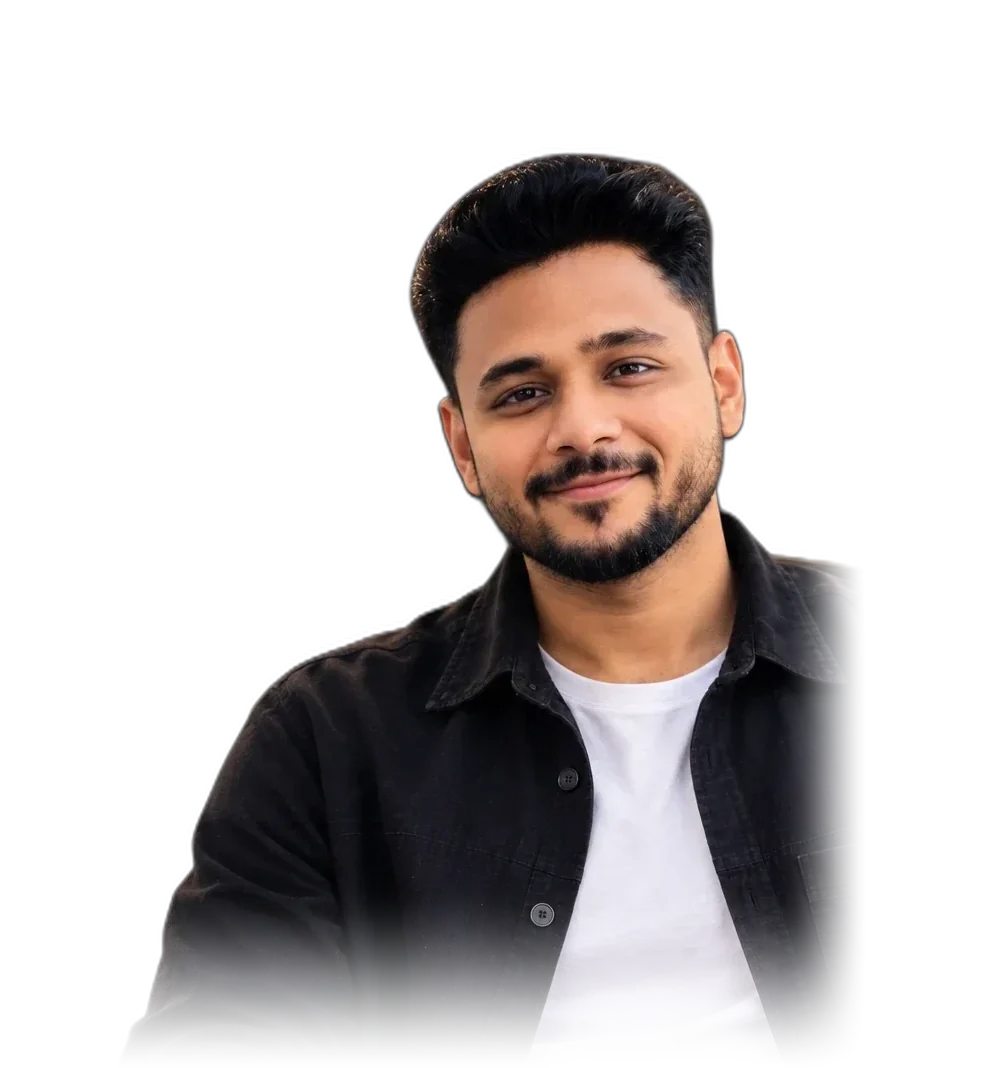
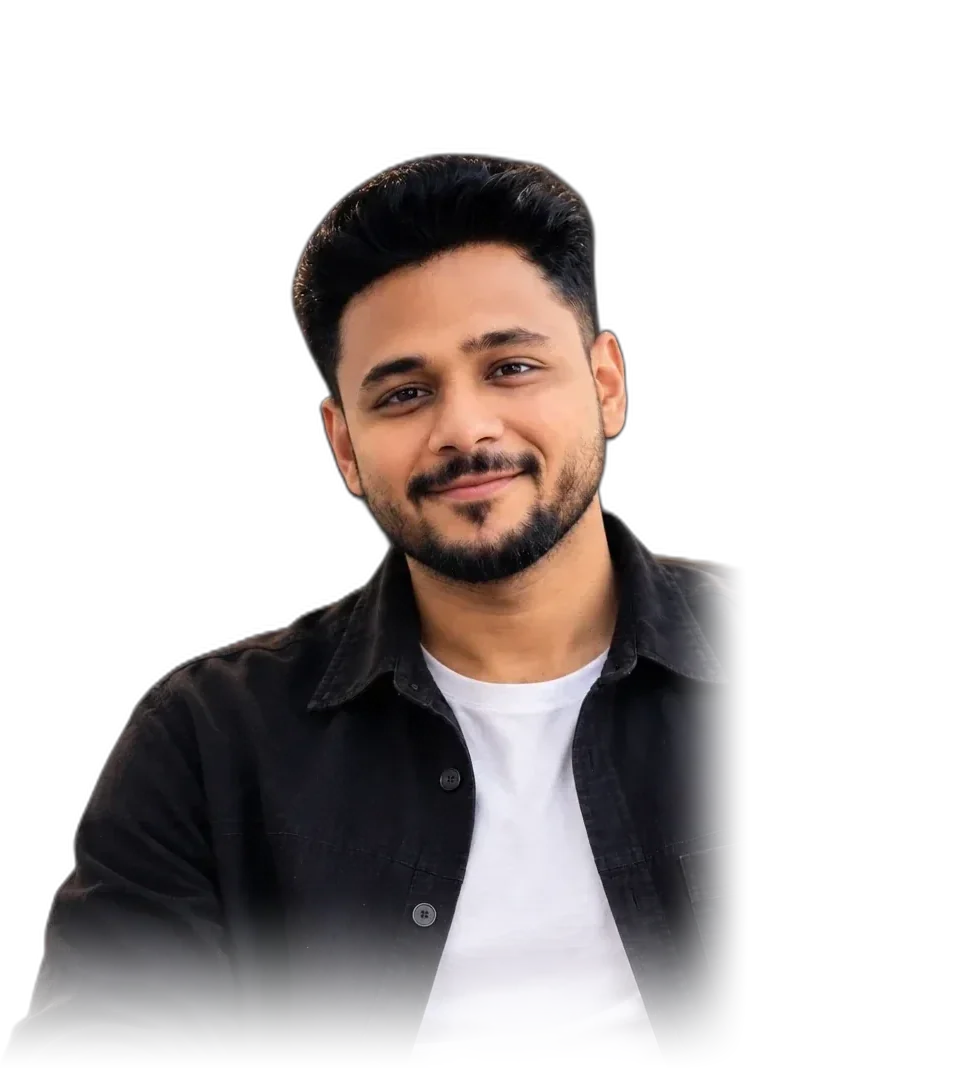
Fix review findings: hero framing, nav highlight, accessibility, robustness
- Re-centre the hero cut-out so the animated title no longer covers the head
- Active menu link matches the scroll padding and the 1.4 zoom on 2K screens
- Custom cursor follows the mouse correctly on 2K screens
- About shadow no longer blocks the Resume button on phones
- Both split-text lines loop in sync (loopDelay for the shorter line)
- Keyboard focus styles for tabs, services buttons, bullets, project link
- aria-current on the active bullet, aria-pressed on work tabs
- Work cards: gap between title and year; long words wrap in cards
- Open services card: arrow button no longer covers the last skills row
- Hide the projects section and menu link when there are no projects
- A typo in data.js no longer leaves the page blank (Excel still loads)
- Page title and description editable from the Excel Profile tab
- Placeholder uses the reference screenshot ratio; README rewritten

Claude-Session: https://claude.ai/code/session_01V3rJRr9ddJGrkVNupyDXSH

diff --git a/assets/js/main.js b/assets/js/main.js
@@ -36,6 +36,10 @@ const splitList = (s) => String(s ?? "").split(/[,;\n]/).map((x) => x.trim()).fi
 const isVisible = (row) => String(row.visible ?? "yes").trim().toLowerCase() !== "no";
 const pad = (n) => String(n).padStart(2, "0");
 const reduceMotion = window.matchMedia("(prefers-reduced-motion: reduce)");
+// Screens >= 2048px use "body { zoom: 1.4 }": mouse and scroll positions are zoomed, element offsets are not
+const bodyZoom = () => parseFloat(getComputedStyle(document.body).zoom) || 1;
+let zoom = bodyZoom();
+window.addEventListener("resize", () => (zoom = bodyZoom()));
 
 /*=============== CONTENT LOADING ===============*/
 const TABS = ["Profile", "Projects", "Experience", "Services", "Testimonials"];
@@ -150,7 +154,9 @@ function mergeTabs(defaults, tabs) {
 async function loadContent() {
   const sources = [];
   if (typeof SHEET_URL === "string" && SHEET_URL.trim()) sources.push(["Google Sheet", () => loadGoogleTabs(SHEET_URL)]);
-  if (typeof EXCEL_FILE === "string" && EXCEL_FILE.trim()) sources.push(["Excel file", () => loadExcelTabs(EXCEL_FILE)]);
+  // Still read the Excel file if data.js is broken (EXCEL_FILE missing)
+  const excel = typeof EXCEL_FILE === "string" ? EXCEL_FILE : "portfolio-data.xlsx";
+  if (excel.trim()) sources.push(["Excel file", () => loadExcelTabs(excel)]);
 
   for (const [name, load] of sources) {
     try {
@@ -188,6 +194,12 @@ function renderProfile(p) {
     if (value) el.textContent = value;
   });
   $("#about-text").innerHTML = boldify(p.about_text);
+  if (p.page_title) document.title = p.page_title;
+  if (p.page_description) document.querySelector('meta[name="description"]').setAttribute("content", p.page_description);
+  if (p.logo) {
+    $("#hero-image").alt = p.logo;
+    $("#about-image").alt = p.logo;
+  }
 
   const heroImage = safeUrl(p.hero_image);
   if (heroImage) $("#hero-image").src = heroImage;
@@ -246,6 +258,8 @@ function projectCard(p, i) {
 // Returns the number of real (not repeated) projects
 function renderProjects(projects) {
   const cards = projects.filter(isVisible).map(projectCard);
+  $("#projects").hidden = cards.length === 0;
+  document.querySelector('.nav__menu a[href="#projects"]').closest("li").hidden = cards.length === 0;
   // Swiper's loop mode needs more slides than fit on the screen, so with only
   // a few projects the cards are repeated (the original design had 8 projects).
   const copies = cards.length ? Math.ceil(8 / cards.length) : 0;
@@ -368,8 +382,10 @@ function startSplitText() {
     delay: stagger(80),
     loop: true,
   };
-  animate(chars1, options);
-  animate(chars2, options);
+  // Lines with fewer letters wait a bit longer, so both loops stay in sync
+  const longest = Math.max(chars1.length, chars2.length);
+  animate(chars1, { ...options, loopDelay: (longest - chars1.length) * 80 });
+  animate(chars2, { ...options, loopDelay: (longest - chars2.length) * 80 });
 }
 
 /*=============== SWIPER PROJECTS ===============*/
@@ -387,7 +403,11 @@ function startSwiper(count) {
   // One bullet per real project (the repeated cards share the same bullets)
   const bullets = document.querySelectorAll("#projects-pagination .swiper-pagination-bullet");
   const update = () =>
-    bullets.forEach((b, i) => b.classList.toggle("swiper-pagination-bullet-active", i === swiperProjects.realIndex % count));
+    bullets.forEach((b, i) => {
+      const active = i === swiperProjects.realIndex % count;
+      b.classList.toggle("swiper-pagination-bullet-active", active);
+      active ? b.setAttribute("aria-current", "true") : b.removeAttribute("aria-current");
+    });
   const goTo = (i) => {
     const current = swiperProjects.realIndex;
     swiperProjects.slideToLoop(current - (current % count) + i);
@@ -413,6 +433,7 @@ tabs.forEach((tab) => {
     // Activate the tab and its content
     tab.classList.add("work-active");
     targetContent.classList.add("work-active");
+    tabs.forEach((t) => t.setAttribute("aria-pressed", String(t === tab)));
   });
 });
 
@@ -466,13 +487,15 @@ const sections = document.querySelectorAll("section[id]");
 
 const scrollActive = () => {
   const scrollY = window.scrollY;
+  // Menu clicks stop "scroll-padding-top" above a section, so the threshold must be larger than that
+  const offset = Math.max(50, (parseFloat(getComputedStyle(document.documentElement).scrollPaddingTop) || 0) + 2);
   const atBottom = window.innerHeight + scrollY >= document.documentElement.scrollHeight - 2;
   const linked = [...sections].filter((s) => document.querySelector(`.nav__menu a[href="#${s.id}"]`));
 
   linked.forEach((section, i) => {
     const navLink = document.querySelector(`.nav__menu a[href="#${section.id}"]`),
-      top = section.offsetTop - 50,
-      height = section.offsetHeight;
+      top = (section.offsetTop - offset) * zoom,
+      height = section.offsetHeight * zoom;
     // The last section is often too short to reach the top, so at the very bottom it is active
     const active = atBottom ? i === linked.length - 1 : scrollY > top && scrollY <= top + height;
     navLink.classList.toggle("active-link", active);
@@ -487,8 +510,8 @@ let mouseX = 0,
   mouseMoved = false;
 
 const cursorMove = () => {
-  cursor.style.left = `${mouseX}px`;
-  cursor.style.top = `${mouseY}px`;
+  cursor.style.left = `${mouseX / zoom}px`;
+  cursor.style.top = `${mouseY / zoom}px`;
   cursor.style.transform = "translate(-50%, -50%)";
   requestAnimationFrame(cursorMove);
 };
@@ -511,8 +534,6 @@ document.addEventListener("mouseout", (e) => {
   const a = e.target.closest("a");
   if (mouseMoved && a && !a.contains(e.relatedTarget)) cursor.classList.remove("hide-cursor");
 });
-document.documentElement.addEventListener("mouseleave", () => cursor.classList.add("hide-cursor"));
-document.documentElement.addEventListener("mouseenter", () => mouseMoved && cursor.classList.remove("hide-cursor"));
 
 /*=============== SCROLL REVEAL ANIMATION ===============*/
 function startScrollReveal() {
@@ -538,22 +559,30 @@ function startScrollReveal() {
 }
 
 /*=============== START ===============*/
-(async () => {
-  let data;
-  try {
-    // Don't keep the page hidden for long if the network is slow
-    const timeout = new Promise((resolve) => setTimeout(() => resolve(null), 3000));
-    data = (await Promise.race([loadContent(), timeout])) || structuredClone(DEFAULT_DATA);
-  } catch (err) {
-    console.warn("Content not loaded, using data.js:", err.message);
-    data = structuredClone(DEFAULT_DATA);
-  }
+// If data.js has a typo, DEFAULT_DATA does not exist: use empty content instead of a blank page
+if (typeof DEFAULT_DATA === "undefined") {
+  console.error("assets/js/data.js could not be read (check it for a missing comma or quote)");
+  window.DEFAULT_DATA = { profile: {}, projects: [], experience: [], services: [], testimonials: [] };
+}
 
+(async () => {
   try {
+    let data;
+    try {
+      // Don't keep the page hidden for long if the network is slow
+      const timeout = new Promise((resolve) => setTimeout(() => resolve(null), 3000));
+      data = (await Promise.race([loadContent(), timeout])) || structuredClone(DEFAULT_DATA);
+    } catch (err) {
+      console.warn("Content not loaded, using data.js:", err.message);
+      data = structuredClone(DEFAULT_DATA);
+    }
+
     const projectCount = renderAll(data);
     startSplitText();
     startSwiper(projectCount);
     startScrollReveal();
+  } catch (err) {
+    console.error(err);
   } finally {
     document.body.classList.remove("is-loading");
     scrollActive();

diff --git a/assets/css/styles.css b/assets/css/styles.css
@@ -1506,7 +1506,7 @@ html {
 
 /* Shown instead of a screenshot until a project image is added */
 .projects__placeholder {
-  aspect-ratio: 16 / 10;
+  aspect-ratio: 1897 / 871; /* same shape as the original project screenshots */
   border-radius: 1.5rem;
   background: radial-gradient(circle at 30% 20%, hsla(var(--hue), 60%, 64%, 0.35), transparent 60%),
     var(--body-color);
@@ -1523,11 +1523,57 @@ html {
   color: var(--first-color-light);
 }
 
-/* Touch screens have no hover, so always show the project link button */
-@media (hover: none) {
-  .projects__button {
-    opacity: 1;
-    pointer-events: initial;
+/* Keyboard users: show the project link button when it has focus */
+.projects__image:focus-within .projects__button,
+.projects__button:focus-visible {
+  opacity: 1;
+  pointer-events: initial;
+}
+
+/* Visible keyboard focus (the base "button { outline: none }" removes it) */
+.work__button:focus-visible,
+.services__button:focus-visible,
+.swiper-pagination-bullet:focus-visible {
+  outline: 2px solid var(--first-color);
+  outline-offset: 3px;
+}
+
+/* Long words from the spreadsheet never spill out of a card */
+.projects__title,
+.projects__description,
+.work__title,
+.work__subtitle,
+.services__title {
+  overflow-wrap: anywhere;
+}
+
+/* Work cards: title and year never touch */
+.work__data {
+  column-gap: 0.5rem;
+}
+
+/* The About shadow is decoration only: never block the Resume button */
+.about__shadow {
+  pointer-events: none;
+}
+.about__data {
+  position: relative;
+  z-index: 2;
+}
+
+/* Animated hero lines stay on one line; shrink on small screens if the text is long */
+.home__profession-1,
+.home__profession-2 {
+  white-space: nowrap;
+}
+@media screen and (max-width: 1149px) {
+  .home__profession-1,
+  .home__profession-2 {
+    font-size: min(var(--bigger-font-size), 8.75vw);
+  }
+  /* Open services card: keep the arrow button off the last row of skills */
+  .services__open .services__info {
+    padding-bottom: 1rem;
   }
 }
 

diff --git a/assets/js/data.js b/assets/js/data.js
@@ -15,6 +15,8 @@ const DEFAULT_DATA = {
   /* ---------- Profile: one value per key ---------- */
   profile: {
     logo: "Mohd Saud",
+    page_title: "Mohd Saud | Cloud & DevOps Engineer",
+    page_description: "Portfolio of Mohd Saud: Cloud & DevOps engineer in the making, working with AWS, Terraform, Docker, CI/CD and Cloud Security.",
     greeting: "Hello, I'm",
     name_line1: "Mohd",
     name_line2: "Saud",
@@ -106,7 +108,7 @@ const DEFAULT_DATA = {
       type: "Education",
       title: "B.Tech\n(Computer Science)",
       organization: "Dr. A.P.J. Abdul Kalam Technical University (AKTU), Lucknow",
-      period: "Graduated\n2026",
+      period: "Class of\n2026",
       description:
         "Studied computer science fundamentals, programming, networking and problem solving, and moved into Cloud and DevOps through hands-on projects.",
       visible: "yes",

diff --git a/index.html b/index.html
@@ -83,7 +83,7 @@
               alt="Mohd Saud"
               class="home__profile"
               id="hero-image"
-              width="984"
+              width="954"
               height="1068"
             />
           </div>

diff --git a/README.md b/README.md
@@ -1,46 +1,69 @@
 # Mohd Saud: Portfolio Website
 
-Personal portfolio for my Cloud / DevOps journey, built with plain HTML, CSS and JavaScript (no framework).
-Layout inspired by [Habib Ur Rehman's portfolio](https://habib277672.github.io/Personal-Portfolio/).
+Personal portfolio for my Cloud / DevOps journey, built with plain HTML, CSS and JavaScript (no framework, no build step).
 
-All text (profile, projects, experience, skills, testimonials) can be changed from a **Google Sheet**, with no code.
-No external CDN: fonts and icons (Remix Icon, inline SVG sprite in `index.html`) are bundled, so the site works offline too.
+Design based on the [Panda Coders portfolio](https://habib277672.github.io/Personal-Portfolio/) by Habib Ur Rehman:
+same layout, colours, fonts and animations, with my own content and photos.
 
-## Folder structure
-```
-index.html              page structure (sections)
-assets/css/styles.css   all design (change --hue to change the theme color)
-assets/js/data.js       default content + SHEET_URL setting
-assets/js/main.js       renders content, Google Sheet loader, animations
-assets/img/             photos (and project screenshots)
-assets/fonts/           Montserrat + Unbounded (self-hosted, no Google Fonts call)
-assets/pdf/             resume
-portfolio-data.xlsx     template for the Google Sheet
-```
+## Update the content with Excel (no code)
+All text, links, projects, experience, skills and testimonials live in **`portfolio-data.xlsx`**.
+
+1. Download `portfolio-data.xlsx` from this repository and open it in Excel.
+2. Edit the tabs **Profile**, **Projects**, **Experience**, **Services**, **Testimonials**
+   (the **How to use** tab inside the file repeats these rules).
+3. Save it with the same name.
+4. On GitHub: **Add file → Upload files** → drop the file → **Commit changes**.
+5. Wait 1-2 minutes and refresh the website.
+
+Rules:
+- Don't rename the tabs or the column names in row 1. In **Profile** only change the `value` column.
+- Several items in one cell → separate with commas (`AWS, Terraform, Docker`). New line in a cell → **Alt+Enter**.
+- `visible` = `no` hides a row without deleting it.
+- Images: upload the picture to `assets/img/` and write `assets/img/your-file.png` in the cell
+  (`hero_image` / `about_image` in Profile, `image` in Projects / Testimonials).
+- In `about_text`, wrap words in `**double stars**` to make them purple.
+- Testimonials: only real quotes from real people. The section stays hidden while the tab is empty.
+
+### Optional: live editing with Google Sheets
+Upload `portfolio-data.xlsx` to Google Drive → open with Google Sheets → **Share → Anyone with the link → Viewer**,
+then paste the sheet link into `SHEET_URL` at the top of `assets/js/data.js`. Edits in the sheet show up on the
+site after a refresh, without uploading anything to GitHub.
+
+The site reads its content in this order: Google Sheet (if `SHEET_URL` is set) → `portfolio-data.xlsx` → `assets/js/data.js`
+(fallback, used offline or when a file can't be read). It never breaks because of a bad sheet: a tab with wrong
+columns is ignored and the fallback content is used for that tab.
 
 ## Run locally
 ```bash
 python3 -m http.server 8000
 # open http://localhost:8000
 ```
+(Opening `index.html` directly also works, but then the Excel file can't be read and `data.js` is used.)
 
 ## Deploy (free) with GitHub Pages
-Repo → **Settings → Pages** → Source: *Deploy from a branch* → choose the branch and `/ (root)` → Save.
+Repository → **Settings → Pages** → Source: *Deploy from a branch* → choose the branch and `/ (root)` → Save.
 
-## Edit content from Google Sheets (one-time setup)
-1. Upload `portfolio-data.xlsx` to Google Drive → open it → **File → Save as Google Sheets**.
-2. Click **Share** → General access: **Anyone with the link → Viewer**.
-3. Copy the sheet link and paste it into `SHEET_URL` at the top of `assets/js/data.js`. Commit and push.
-4. Done. Edit the sheet, then refresh the website.
+## Folder structure
+```
+index.html               page structure + icon sprite
+portfolio-data.xlsx      ALL the content (edit this)
+assets/css/styles.css    design (change --hue to change the theme colour)
+assets/js/data.js        fallback content + SHEET_URL setting
+assets/js/main.js        loads the content, renders the sections, animations
+assets/img/              photos (and project screenshots)
+assets/pdf/              resume
+assets/fonts/            Montserrat + Unbounded (self-hosted)
+assets/vendor/           third-party libraries (see below)
+```
 
-Sheet rules:
-- Keep the tab names exactly: `Profile`, `Projects`, `Experience`, `Services`, `Testimonials`.
-- Do not rename the column headers (first row) or the `key` names in `Profile`.
-- Multiple items in one cell → separate with commas (`AWS, Terraform, Docker`).
-- `visible` = `no` hides a row. Testimonials stay hidden until you add one.
-- In `about_text`, wrap words in `**double stars**` to make them purple.
-- If a value disappears on the site, select the column → **Format → Number → Plain text**.
-- If the sheet can't be loaded, the site falls back to `data.js`, so it never breaks.
+## Third-party code
+| Library | Used for | License |
+|---|---|---|
+| [Swiper](https://swiperjs.com) 11.2.10 | projects carousel | MIT |
+| [anime.js](https://animejs.com) 4.1.4 | animated title letters | MIT |
+| [ScrollReveal](https://scrollrevealjs.org) 4.0.9 | scroll animations | GPL-3.0 (free for non-commercial / open-source use) |
+| [SheetJS](https://sheetjs.com) 0.20.3 (mini) | reading the Excel file in the browser | Apache-2.0 |
+| [Remix Icon](https://remixicon.com) 4.6.0 | icons (inline SVG sprite) | Apache-2.0 |
+| Montserrat, Unbounded | fonts | SIL Open Font License |
 
-## Add a project screenshot
-Put the image in `assets/img/` (e.g. `project-1.png`) and write `assets/img/project-1.png` in the `image` column.
+Everything is served from this repository, so the site doesn't depend on any CDN.
